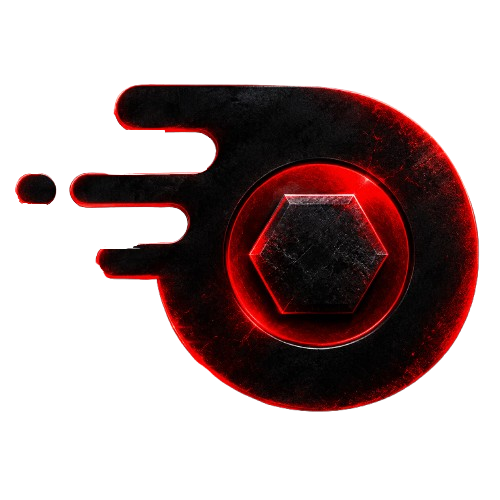
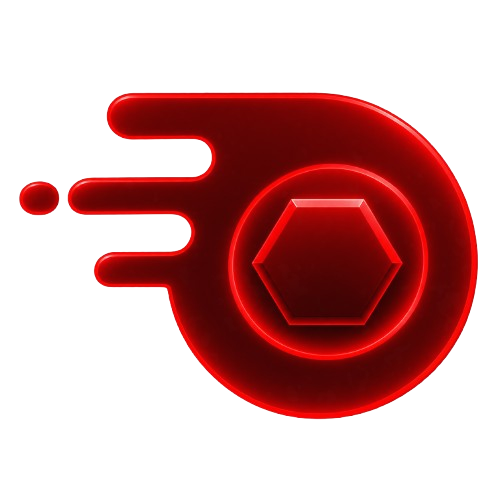
feat: refresh nitro emblem and add logout

diff --git a/src/main.jsx b/src/main.jsx
@@ -13,6 +13,7 @@ import {
   Headphones,
   HelpCircle,
   Lock,
+  LogOut,
   Maximize2,
   Megaphone,
   Menu,
@@ -664,7 +665,7 @@ function CanvasChoiceModal({ title, kind, current, onClose, onApply, catalogItem
     </div>
   );
 }
-function VoiceSettingsPanel({ user, onClose, onAccount }) {
+function VoiceSettingsPanel({ user, onClose, onAccount, onLogout }) {
   const [micVolume, setMicVolume] = useState(80);
   const [outputVolume, setOutputVolume] = useState(80);
   const [sensitivity, setSensitivity] = useState(55);
@@ -814,6 +815,15 @@ function VoiceSettingsPanel({ user, onClose, onAccount }) {
           <button className="voice-settings-sub" onClick={() => setSection("transmission")}>Transmissão</button>
           <button className="voice-settings-sub" onClick={() => setSection("sounds")}>Sons</button>
           <button className="voice-settings-sub" onClick={() => setSection("advanced")}>Avançado</button>
+          <hr />
+          <button
+            className="voice-settings-logout"
+            onClick={() => {
+              if (window.confirm("Deseja sair da sua conta?")) onLogout();
+            }}
+          >
+            <LogOut size={15} /> Sair da conta
+          </button>
         </aside>
         <main className="voice-settings-content">
           <button className="voice-settings-close" onClick={onClose}>
@@ -4177,6 +4187,7 @@ function App({ currentUser, onLogout, onUserUpdate }) {
           user={currentUser}
           onClose={() => setSettingsOpen(false)}
           onAccount={() => setSettingsTab("account")}
+          onLogout={onLogout}
         />
       )}
       {settingsOpen && settingsTab === "account" && accountForm && (

diff --git a/src/styles.css b/src/styles.css
@@ -2726,6 +2726,13 @@ button {
   padding-left: 28px;
   font-size: 12px;
 }
+.voice-settings-nav .voice-settings-logout {
+  color: #ed8290;
+}
+.voice-settings-nav .voice-settings-logout:hover {
+  color: #fff;
+  background: #8f2630;
+}
 .voice-settings-content {
   position: relative;
   flex: 1;
